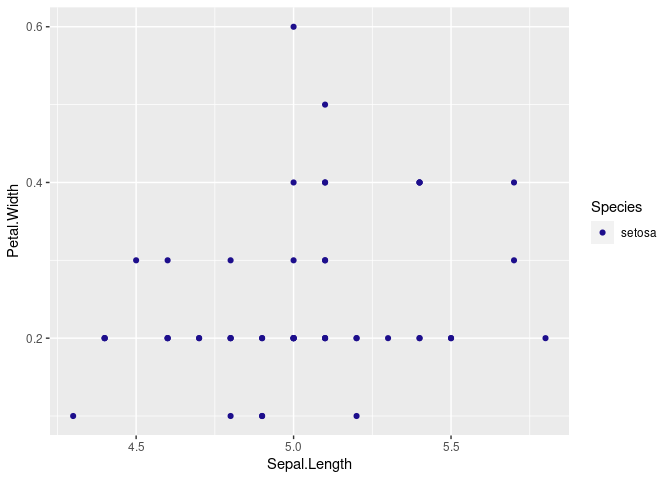
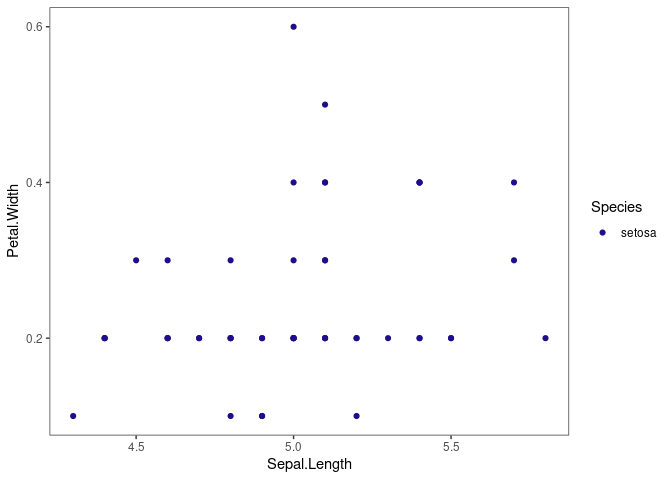
added other test cases to README

Changed region(s): [[0.0625, 0.875, 0.0938, 0.9062]]

diff --git a/README.md b/README.md
@@ -40,7 +40,7 @@ library(devtools)
 # Loading required package: usethis
 
 devtools::install_github("jcunha2023/icampcolors")
-# Skipping install of 'icampcolors' from a github remote, the SHA1 (b0980f7b) has not changed since last install.
+# Skipping install of 'icampcolors' from a github remote, the SHA1 (d01be58a) has not changed since last install.
 #   Use `force = TRUE` to force installation
 ```
 
@@ -105,14 +105,20 @@ To get palette names use names():
 
 ## Example Use Cases
 
-    # 
-    # Attaching package: 'dplyr'
-    # The following objects are masked from 'package:stats':
-    # 
-    #     filter, lag
-    # The following objects are masked from 'package:base':
-    # 
-    #     intersect, setdiff, setequal, union
+``` r
+library(icampcolors)
+library(ggplot2)
+library(scales)
+library(dplyr)
+# 
+# Attaching package: 'dplyr'
+# The following objects are masked from 'package:stats':
+# 
+#     filter, lag
+# The following objects are masked from 'package:base':
+# 
+#     intersect, setdiff, setequal, union
+```
 
 Using the Iris data set, you can display data points in iCaMP Blue:
 
@@ -122,7 +128,54 @@ setosa_data <- subset(iris, Species == "setosa")
 
 ggplot(setosa_data, aes(Sepal.Length, Petal.Width))+
   geom_point(aes(color = Species))+
+  theme_bw()+
+  theme(panel.grid.major = element_blank(), panel.grid.minor = element_blank())+
   scale_color_palette_d(icamp_palettes_discrete$icamp_blue)
 ```
 
 <img src="README_files/figures/unnamed-chunk-9-1.png" width="100%" />
+
+Here is an example of generating a heatmap with a diverging color
+palette using the faithfuld data set:
+
+``` r
+
+ggplot(faithfuld, aes(eruptions, waiting, fill = density))+
+  geom_tile()+
+  theme_bw()+
+  theme(panel.grid.major = element_blank(), panel.grid.minor = element_blank())+
+  scale_fill_palette_c(icamp_color_palettes$diverging_1)
+```
+
+<img src="README_files/figures/unnamed-chunk-10-1.png" width="100%" />
+
+If you want a specific color from a palette, you can use indexing to
+access the hex code:
+
+``` r
+
+setosa_data <- subset(iris, Species == "setosa")
+
+ggplot(setosa_data, aes(Sepal.Length, Petal.Width))+
+  geom_point(aes(color = Species))+
+  theme_bw()+
+  theme(panel.grid.major = element_blank(), panel.grid.minor = element_blank())+
+  scale_color_palette_d(icamp_color_palettes$fluro[4])
+```
+
+<img src="README_files/figures/unnamed-chunk-11-1.png" width="100%" />
+
+Finally, icampcolors can be used with non-ggplot data visualization
+tools in R. Here is an example of a graph displaying Ozone levels from
+the ‘airquality’ dataset using the bright color palette.
+
+``` r
+
+#create plot
+plot(airquality$Ozone, type = "b", col = icamp_color_palettes$bright, lwd = 2, xlab = "Day", ylab = "Ozone Level", main = "Ozone Levels Over Time")
+
+#add legend
+legend(x = 'topright', legend = unique(airquality$Month), fill = icamp_color_palettes$bright, title = "Month")
+```
+
+<img src="README_files/figures/unnamed-chunk-12-1.png" width="100%" />
